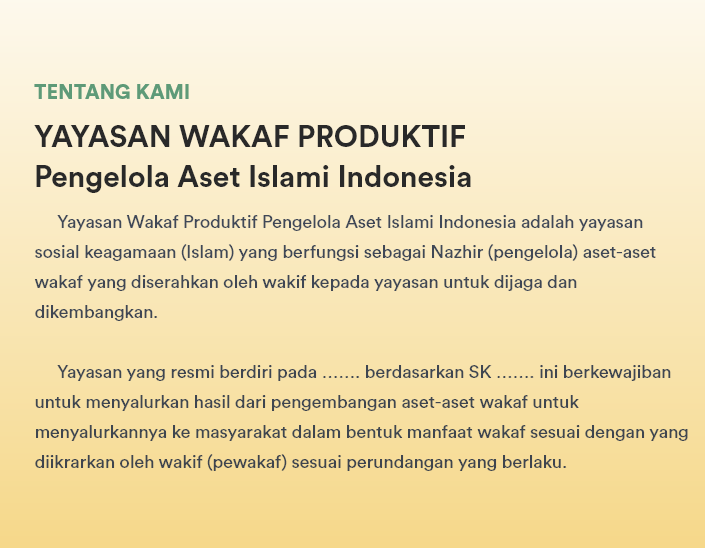
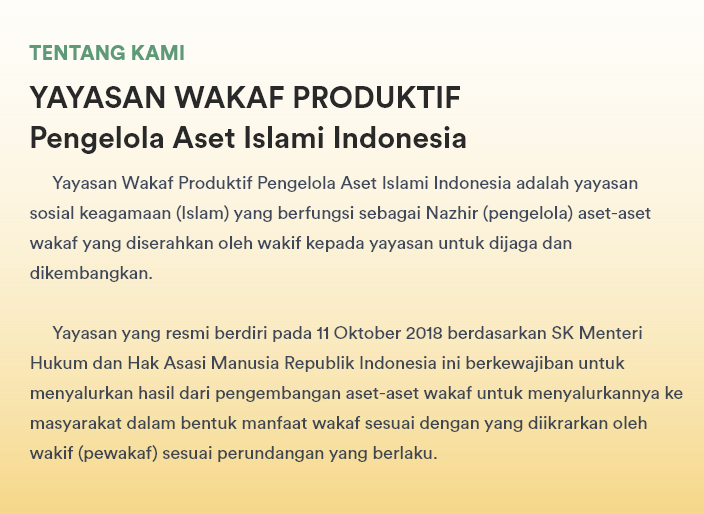
update aboutus content!

diff --git a/wakafapp/templates/aboutUs.html b/wakafapp/templates/aboutUs.html
@@ -13,7 +13,7 @@
         </div>
     </div>
 
-    <div class="container-fluid py-3" style="background-color: white; margin-bottom: 5vh;">
+    <div class="container-fluid py-5" style="background-color: white; margin-bottom: 5vh;">
         <h4 class="text-center mb-4"><b>Nilai-nilai Yayasan</b></h4>
 
         <div class="card-deck py-2" style="padding-left: 10vw; padding-right: 10vw;">
@@ -22,7 +22,7 @@
                 <div class="card-body">
                     <img class="mx-auto d-block img-card" src="{% static '/img/layanan1.png' %}">
                     <div class="subheading1 text-center"><h4>PROFESIONAL</h4></div>
-                    <p class="subheading2 card-text">Lorem ipsum dolor sit amet, consectetur adipiscing elit. Quisque a cursus diam, vel ultricies enim. Nunc suscipit eu est id malesuada. </p>
+                    <p class="subheading2 card-text">Yayasan kami melibatkan profesional yang berpengalaman dalam bisnis serta akademisi yang menguasai bidang keuangan syariah</p>
                 </div>
             </div>
 
@@ -30,7 +30,7 @@
                 <div class="card-body">
                     <img class="mx-auto d-block img-card" src="{% static '/img/layanan1.png' %}">
                     <div class="subheading1 text-center"><h4>AMANAH</h4></div>
-                    <p class="subheading2 card-text">Integer dapibus orci in sapien venenatis, non suscipit dolor lobortis. Vivamus condimentum viverra odio eu accumsan.</p>
+                    <p class="subheading2 card-text">InsyaAllah, aset dan manfaat wakaf yang dipercayakan kepada kami akan disalurkan secara amanah kepada penerima yang benar-benar membutuhkan</p>
                 </div>
             </div>
 
@@ -38,14 +38,14 @@
                 <div class="card-body">
                     <img class="mx-auto d-block img-card" src="{% static '/img/layanan1.png' %}">
                     <div class="subheading1 text-center"><h4>NILAI TAMBAH</h4></div>
-                    <p class="subheading2 card-text">Kami berkomitmen untuk Lorem ipsum dolor sit amet, consectetur adipiscing elit.</p>
+                    <p class="subheading2 card-text">Kami senantiasa berusaha untuk meningkatkan nilai aset wakaf sehingga wakaf lebih produktif dan memberikan kebermanfaatan yang lebih luas bagi masyarakat</p>
                 </div>
             </div>
 
         </div>
     </div>
 
-    <div class="container-fluid py-3" style="background-color: rgb(219,235,216);">
+    <div class="container-fluid py-5" style="background-color: rgb(219,235,216);">
         <h4 class="text-center mb-4 custom-bold"><b>Informasi Wakaf</b></h4>
         <div class="row">
             <div class="px-sm-0 px-lg-0 px-md-0 px-xl-5 owl-carousel owl1">
@@ -83,7 +83,7 @@
         </div>
     </div>
 
-    <div class="container-fluid py-3" id="custom-container-aboutUs" style="background-color: white;">
+    <div class="container-fluid py-5" id="custom-container-aboutUs" style="background-color: white;">
 
         <h4 class="text-center mb-4 custom-bold"><b>Manfaat Wakaf</b></h4>
         <p class="custom-book" style="color: rgb(65,76,98);">Manfaat wakaf sangat besar karena tidak ada kriteria tertentu bagi penerimanya. Oleh karena itu, manfaat wakaf dapat diberikan untuk:<br>
@@ -96,72 +96,70 @@
         </p>
     </div>
 
-    <div class="container-fluid py-3" style="background-image: url('/static/img/bg.png');">
+    <div class="container-fluid py-5" style="background-image: url('/static/img/bg.png');">
         <h4 class="text-center mb-4 custom-bold"><b>Pengurus Yayasan</b></h4>
         <div class="row row-atas-pengurus" style="margin-top: 10vh; margin-bottom: 10vh;">
             <div class="col-md-2 text-center">
-                <img src="{% static 'img/testiava3.png' %}">
+{#                <img src="{% static 'img/testiava3.png' %}">#}
                 <p class="margin5 custom-medium">Prof. DR. Aliasar, M.Ed.</p>
                 <p class="margin-2 custom-book">Pembina</p>
             </div>
             <div class="col-md-2 text-center">
-                <img src="{% static 'img/testiava3.png' %}">
+{#                <img src="{% static 'img/testiava3.png' %}">#}
                 <p class="margin5 custom-medium">dr. Sakina Umar, Sp. THT</p>
                 <p class="margin-2 custom-book">Pembina</p>
             </div>
             <div class="col-md-2 text-center">
-                <img src="{% static 'img/testiava3.png' %}">
+{#                <img src="{% static 'img/testiava3.png' %}">#}
                 <p class="margin5 custom-medium">Afdhal Aliasar, ST. MM.</p>
                 <p class="margin-2 custom-book">Pendiri dan Ketua Umum</p>
             </div>
             <div class="col-md-2 text-center">
-                <img src="{% static 'img/testiava3.png' %}">
+{#                <img src="{% static 'img/testiava3.png' %}">#}
                 <p class="margin5 custom-medium">Banu Muhammad, SE. MSE.</p>
                 <p class="margin-2 custom-book">Wakil Ketua</p>
             </div>
             <div class="col-md-2 text-center">
-                <img src="{% static 'img/testiava3.png' %}">
+{#                <img src="{% static 'img/testiava3.png' %}">#}
                 <p class="margin5 custom-medium">Arief Aditya, SE</p>
                 <p class="margin-2 custom-book">Sekretaris</p>
             </div>
         </div>
         <div class="row row-bawah-pengurus">
             <div class="col-md-2 text-center">
-                <img src="{% static 'img/testiava3.png' %}">
+{#                <img src="{% static 'img/testiava3.png' %}">#}
                 <p class="margin5 custom-medium">Raymon Aser Nasution, SE. MM.</p>
                 <p class="margin-2 custom-book">Bendahara</p>
             </div>
             <div class="col-md-2 text-center">
-                <img src="{% static 'img/testiava3.png' %}">
+{#                <img src="{% static 'img/testiava3.png' %}">#}
                 <p class="margin5 custom-medium">Muhammad Shaddam Muzaki.</p>
                 <p class="margin-2 custom-book">Wakil Bendahara</p>
             </div>
             <div class="col-md-2 text-center">
-                <img src="{% static 'img/testiava3.png' %}">
+{#                <img src="{% static 'img/testiava3.png' %}">#}
                 <p class="margin5 custom-medium">Naufal Farras Fajar</p>
                 <p class="margin-2 custom-book">Tim Kreatif</p>
             </div>
             <div class="col-md-2 text-center">
-                <img src="{% static 'img/testiava3.png' %}">
+{#                <img src="{% static 'img/testiava3.png' %}">#}
                 <p class="margin5 custom-medium">Ir. Emil B. Sumirat</p>
                 <p class="margin-2 custom-book">Pengawas</p>
             </div>
         </div>
 
-        <div class="container-fluid py-3" id="custom-container-aboutUs2" style="margin-bottom: 5vh; margin-top: 40vh;">
+        <div class="container-fluid py-5" id="custom-container-aboutUs2" style="margin-bottom: 5vh; margin-top: 40vh;">
             <h4 class="text-center mb-4 custom-bold"><b>Legalitas Yayasan</b></h4>
-            <p class="custom-book" style="color: rgb(65,76,98);">1. Akta Pendirian Yayasan No. 53 tanggal 24 April tahun 2009 Notaris : Irma Rachmawati, SH<br>
-                2. Akta Perubahan No. 54 tanggal 20 Maret 2015, Notaris : Titin Nurnaeni, SH., M.Kn<br>
-                3. Keputusan Menteri Hukum dan Hak Asasi Manusia Republik Indonesia Nomor. AHU-AHA 01.06-778 Tahun 2013<br>
-                4. Surat Keputusan Lembaga Nadzir No. W5a/26/BH/14/Tahun 2010
-                5. Surat Keputusan Dinsos Bandung No. 062/975 – Dinsos
-                6. Izin BWI No. 3.3. 00049
-                7. NPWP 21. 125.025.3-424.000
+            <p class="custom-book" style="color: rgb(65,76,98);">1. Akta Pendirian Yayasan Wakaf Produktif Pengelola Aset Islami Indonesia Nomor 01 tanggal 10 Oktober tahun 2018 Notaris : Wita Anjani, S.H., M.Kn.<br>
+                2. Surat Keterangan Nomor 1/27.1BY/31.74.04.1001/-071.562/e/2018 Tentang Keterangan Domisili Yayasan<br>
+                3. Keputusan Menteri Hukum dan HAM RI Nomor AHU-0014022.AH.01.04.Tahun 2018<br>
+                4. Tanda Daftar Yayasan Sosial Nomor 2583/F.2/31/74.04.1001/-1.848/e/2018<br>
+                5. Nomor Pokok Wajib Pajak 86.026.916.6-017.000 Yayasan Wakaf Produktif Pengelola Aset Islami Indonesia
             </p>
         </div>
     </div>
 
-    <div class="container-fluid py-3" style="text-align: center; margin-bottom: 10vh;">
+    <div class="container-fluid py-5" style="text-align: center; margin-bottom: 10vh;">
         <h4 class="text-center mb-4 custom-bold"><b>Lokasi Yayasan</b></h4>
         <div id="map-big" class="mapouter-big"><div class="gmap_canvas-big"><iframe width="750" height="500" id="gmap_canvas" src="https://www.google.com/maps/embed?pb=!1m18!1m12!1m3!1d3965.816919813341!2d106.83843041476943!3d-6.28777969544913!2m3!1f0!2f0!3f0!3m2!1i1024!2i768!4f13.1!3m3!1m2!1s0x2e69f33e675adaab%3A0x2ab6b328f805c130!2sYayasan+Wakaf+Produktif+-+Pengelola+Aset+Islami+Indonesia!5e0!3m2!1sen!2sid!4v1547897997776" frameborder="0" scrolling="no" marginheight="0" marginwidth="0"></iframe><a href="https://www.crocothemes.net">crocothemes.net</a></div><style>.mapouter-big {text-align:right;height:500px;width:750px;}.gmap_canvas-big {overflow:hidden;background:none!important;height:500px;width:750px;}</style></div>
         <div id="map-small" class="mapouter-small"><div class="gmap_canvas-small"><iframe width="300" height="400" id="gmap_canvas" src="https://www.google.com/maps/embed?pb=!1m18!1m12!1m3!1d3965.816919813341!2d106.83843041476943!3d-6.28777969544913!2m3!1f0!2f0!3f0!3m2!1i1024!2i768!4f13.1!3m3!1m2!1s0x2e69f33e675adaab%3A0x2ab6b328f805c130!2sYayasan+Wakaf+Produktif+-+Pengelola+Aset+Islami+Indonesia!5e0!3m2!1sen!2sid!4v1547897997776" frameborder="0" scrolling="no" marginheight="0" marginwidth="0"></iframe><a href="https://www.crocothemes.net">crocothemes.net</a></div><style>.mapouter-small {text-align:right;height:400px;width:300px;}.gmap_canvas-small {overflow:hidden;background:none!important;height:400px;width:300px;}</style></div>
